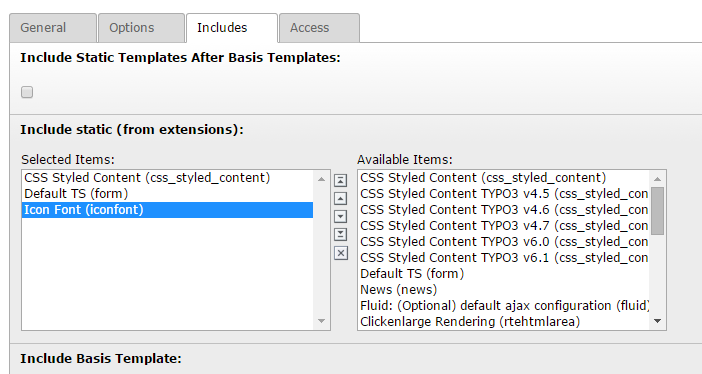
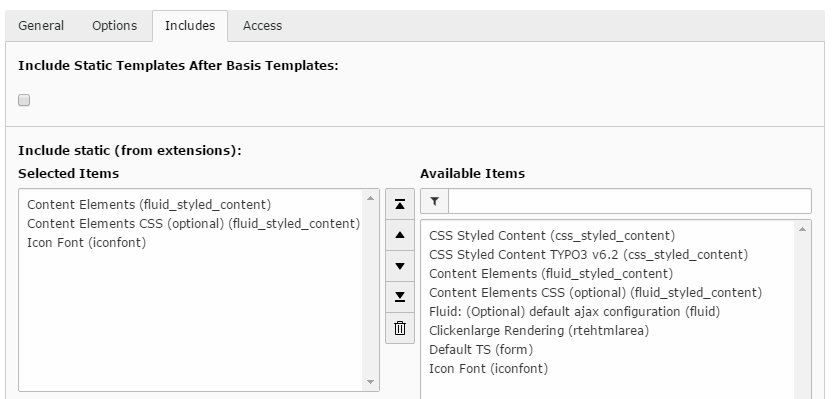
updated for v.0.9.0

diff --git a/Documentation/Main/Administration/Index.rst b/Documentation/Main/Administration/Index.rst
@@ -16,13 +16,13 @@ Installation
 
 - Install the extension.
 
-- In the extension configuration select the iconfont - fontawesome or fontello.
+- In the extension configuration you may switch to custom font. See tab Custom for additional settings.
 
 |img-extconf|
 
 
 
-- Include the static template.
+- Include the static template. **Version 0.9.0+ supports only fluid_styled_content!** lib.fluidContent.partialRootPaths.10 will be set to overwrite the Header partials.
 
 |img-includestatic|
 
@@ -31,17 +31,7 @@ Installation
 Displaying icons in the Rich Text Editor
 ----------------------------------------
 
-Since version 0.7.1 the font icon CSS file is added to RTE.default.contentCSS.
-
-TYPO3 6.2 supports only one css file. An additional css file is used to load the default rte css and the icon font css.
-
-.. code-block:: typoscript
-
-   RTE.default.contentCSS = typo3conf/ext/iconfont/Resources/Public/Css/rte/font-awesome.css
-
-|img-contentcss|
-
-TYPO3 7.2 supports multiple css. The setting applied by this extension is:
+The font icon CSS file is added to RTE.default.contentCSS.
 
 .. code-block:: typoscript
 

diff --git a/Documentation/Main/Index.rst b/Documentation/Main/Index.rst
@@ -14,9 +14,9 @@ Extension Key: iconfont
 :Language: en
 :Keywords: forEditors, forAdmins, forDevelopers
 
-Copyright 2014-2015, Pascal Mayer <typo3@simple.ch>
+Copyright 2014-2016, Pascal Mayer <typo3@simple.ch>
 
-Copyright 2015, |author|
+Copyright 2016, |author|
 
 This document is published under the Open Content License
 
